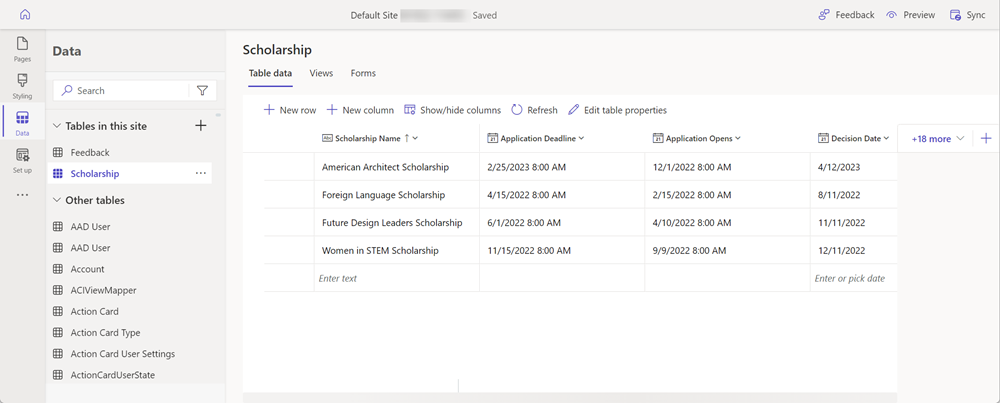
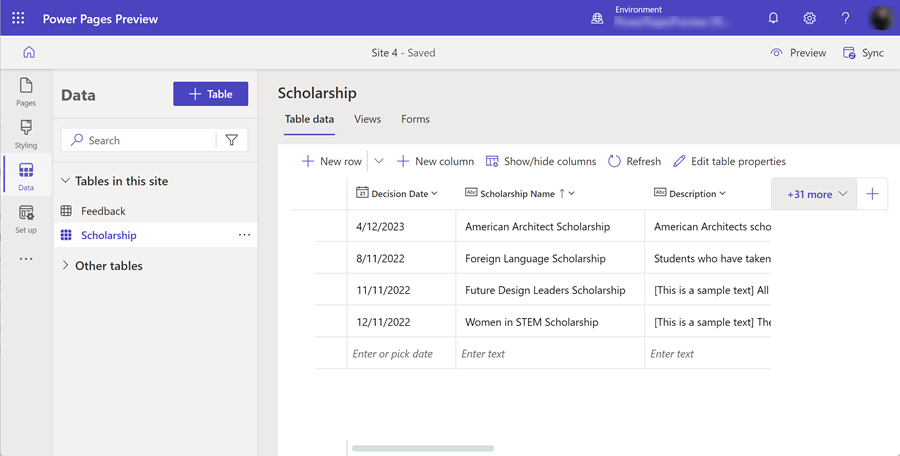
2857246

diff --git a/power-pages-docs/configure/data-workspace-tables.md b/power-pages-docs/configure/data-workspace-tables.md
@@ -4,7 +4,7 @@ description: Learn how to use the Data workspace to create Dataverse tables.
 author: pranita225
 ms.topic: conceptual
 ms.custom: 
-ms.date: 05/24/2022
+ms.date: 08/04/2022
 ms.subservice:
 ms.author: prpadalw
 ms.reviewer: ndoelman
@@ -36,7 +36,7 @@ On the left pane of the **Data** workspace, the **Tables in this site** section 
 
 ## Create a new table
 
-1. Next to **Tables in this site**, select the plus sign (**+**).
+1. Next to **Data**, select **+ Table**.
 
 1. In the window that appears, enter a name for your table. By expanding **Advanced settings**, you can modify the plural name of your table.
 
